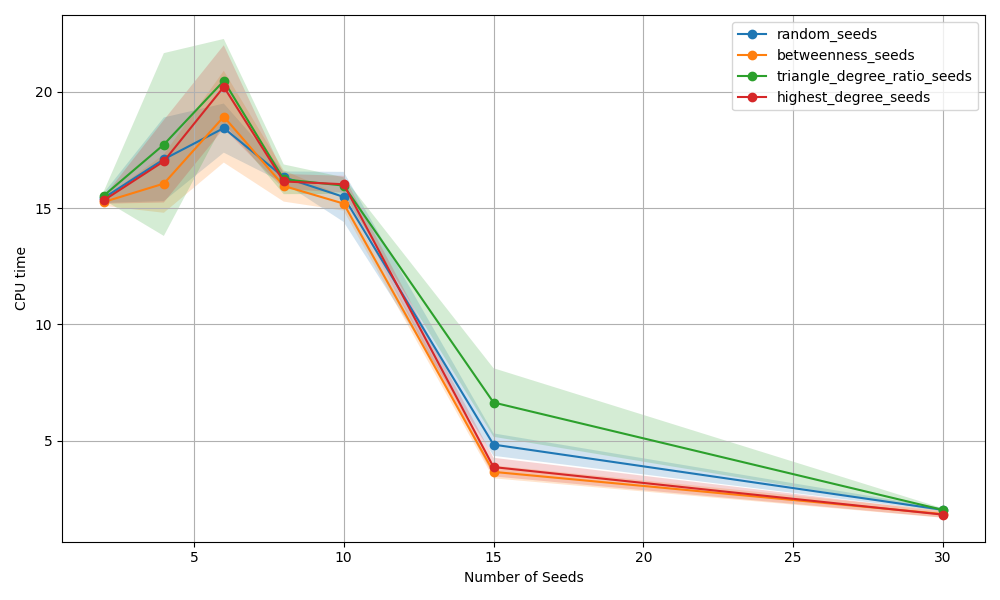
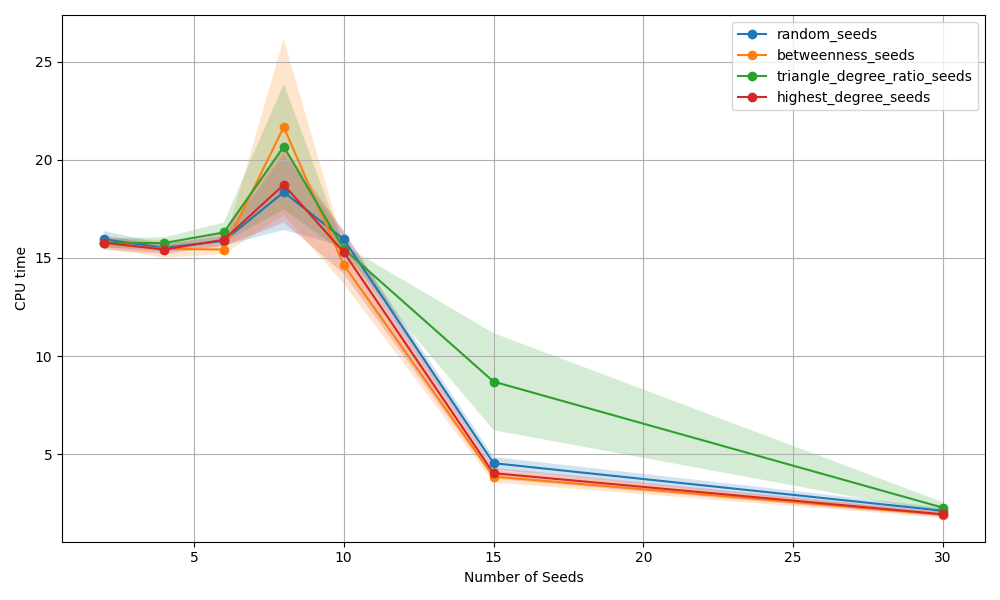
fixed error with experiment sweep

diff --git a/tests.py b/tests.py
@@ -7,11 +7,101 @@ from ExpandWhenStuck import graph_match_percolation
 
 TESTS = [
     {
+        "name": "Sparse SBM Graph with SGM",
+        "graph_gen_func": lambda: gen_SBM_graphs(n_per_block=200, n_blocks=3, rho=.8, 
+                                                 block_probs=np.array([
+                                                    [0.02, 0.005, 0.01],
+                                                    [0.005, 0.02, 0.005],
+                                                    [0.01, 0.005, 0.02]
+                                                ])),
+        "seeding_funcs": [random_seeds, betweenness_seeds, triangle_degree_ratio_seeds, blocked_random_seeds, neighbor_degree_seeds],
+        "algorithm": graspologic_algorithm,
+        "seed_numbers": [2,4,6,8,10,15,30],
+        "trials": 20
+    },
+    {
+        "name": "Dense SBM Graph with Percolation",
+        "graph_gen_func": lambda: gen_SBM_graphs(n_per_block=200, n_blocks=3, rho=.5, 
+                                                 block_probs=np.array([
+                                                    [0.7, 0.3, 0.4],
+                                                    [0.3, 0.7, 0.3],
+                                                    [0.4, 0.3, 0.7]
+                                                ])),
+        "seeding_funcs": [random_seeds, betweenness_seeds, triangle_degree_ratio_seeds, blocked_random_seeds, neighbor_degree_seeds],
+        "algorithm": graph_match_percolation,
+        "seed_numbers": [2,4,6,8,10,15,30,50],
+        "trials": 20
+    },
+    {
+        "name": "Sparse SBM Graph with Percolation",
+        "graph_gen_func": lambda: gen_SBM_graphs(n_per_block=200, n_blocks=3, rho=.8, 
+                                                 block_probs=np.array([
+                                                    [0.02, 0.005, 0.01],
+                                                    [0.005, 0.02, 0.005],
+                                                    [0.01, 0.005, 0.02]
+                                                ])),
+        "seeding_funcs": [random_seeds, betweenness_seeds, triangle_degree_ratio_seeds, blocked_random_seeds, neighbor_degree_seeds],
+        "algorithm": graph_match_percolation,
+        "seed_numbers": [2,4,6,8,10,15,30,50],
+        "trials": 20
+    },
+    {
+        "name": "Heavy tail PAPER Graph with SGM",
+        "graph_gen_func": lambda: gen_PAPER_graphs(n=600, alpha=2, p=.005, rho=.7),
+        "seeding_funcs": [random_seeds, betweenness_seeds, triangle_degree_ratio_seeds, highest_degree_seeds, neighbor_degree_seeds],
+        "algorithm": graspologic_algorithm,
+        "seed_numbers": [2,4,6,8,10,15,30],
+        "trials": 20
+    },
+    {
+        "name": "Light tail PAPER Graph with SGM",
+        "graph_gen_func": lambda: gen_PAPER_graphs(n=600, alpha=3, p=.005, rho=.7),
+        "seeding_funcs": [random_seeds, betweenness_seeds, triangle_degree_ratio_seeds, highest_degree_seeds, neighbor_degree_seeds],
+        "algorithm": graspologic_algorithm,
+        "seed_numbers": [2,4,6,8,10,15,30],
+        "trials": 20
+    },
+    {
+        "name": "Heavy tail PAPER Graph with Percolation",
+        "graph_gen_func": lambda: gen_PAPER_graphs(n=600, alpha=2, p=.005, rho=.7),
+        "seeding_funcs": [random_seeds, betweenness_seeds, triangle_degree_ratio_seeds, highest_degree_seeds, neighbor_degree_seeds],
+        "algorithm": graph_match_percolation,
+        "seed_numbers": [2,4,6,8,10,15,30],
+        "trials": 20
+    },
+    {
+        "name": "Light tail PAPER Graph with Percolation",
+        "graph_gen_func": lambda: gen_PAPER_graphs(n=600, alpha=3, p=.005, rho=.7),
+        "seeding_funcs": [random_seeds, betweenness_seeds, triangle_degree_ratio_seeds, highest_degree_seeds, neighbor_degree_seeds],
+        "algorithm": graph_match_percolation,
+        "seed_numbers": [2,4,6,8,10,15,30],
+        "trials": 20
+    },
+    {
         "name": "Sparse ER Graph with SGM",
         "graph_gen_func": lambda: gen_ER_graphs(n=600, p=.01, rho=.5),
         "seeding_funcs": [random_seeds, betweenness_seeds, triangle_degree_ratio_seeds, highest_degree_seeds],
         "algorithm": graspologic_algorithm,
-        "seed_numbers": [2,5,10,15,30,50],
+        "seed_numbers": [0,10,30,50,100,150],
+        "trials": 20
+    },
+    {
+        "name": "Sparse ER Graph with Percolation",
+        "graph_gen_func": lambda: gen_ER_graphs(n=600, p=.01, rho=.5),
+        "seeding_funcs": [random_seeds, betweenness_seeds, triangle_degree_ratio_seeds, highest_degree_seeds],
+        "algorithm": graph_match_percolation,
+        "seed_numbers": [0,10,30,50,100,150],
+        "trials": 20
+    },
+]
+
+OLD_TESTS = [
+    {
+        "name": "Dense ER Graph with SGM",
+        "graph_gen_func": lambda: gen_ER_graphs(n=600, p=.2, rho=.5),
+        "seeding_funcs": [random_seeds, betweenness_seeds, triangle_degree_ratio_seeds, highest_degree_seeds],
+        "algorithm": graspologic_algorithm,
+        "seed_numbers": [2,4,6,8,10,15,30],
         "trials": 20
     },
     {
@@ -23,20 +113,14 @@ TESTS = [
         "trials": 20
     },
     {
-        "name": "Sparse ER Graph with Percolation",
-        "graph_gen_func": lambda: gen_ER_graphs(n=600, p=.01, rho=.5),
-        "seeding_funcs": [random_seeds, betweenness_seeds, triangle_degree_ratio_seeds, highest_degree_seeds],
-        "algorithm": graph_match_percolation,
-        "seed_numbers": [2,4,6,8,10,15,30],
-        "trials": 20
-    }
-]
-
-OLD_TESTS = [
-    {
-        "name": "Dense ER Graph with SGM",
-        "graph_gen_func": lambda: gen_ER_graphs(n=600, p=.2, rho=.5),
-        "seeding_funcs": [random_seeds, betweenness_seeds, triangle_degree_ratio_seeds, highest_degree_seeds],
+        "name": "Dense SBM Graph with SGM",
+        "graph_gen_func": lambda: gen_SBM_graphs(n_per_block=200, n_blocks=3, rho=.5, 
+                                                 block_probs=np.array([
+                                                    [0.7, 0.3, 0.4],
+                                                    [0.3, 0.7, 0.3],
+                                                    [0.4, 0.3, 0.7]
+                                                ])),
+        "seeding_funcs": [random_seeds, betweenness_seeds, triangle_degree_ratio_seeds, blocked_random_seeds, neighbor_degree_seeds],
         "algorithm": graspologic_algorithm,
         "seed_numbers": [2,4,6,8,10,15,30],
         "trials": 20

diff --git a/experiment_sweep.py b/experiment_sweep.py
@@ -43,8 +43,8 @@ def run_experiment_sweep(tests):
         )
         
         # 3. Call plot_results to save the visualization into the new folder
-        plot_results(accuracies, SEED_COUNTS, y_label="Match Ratio", show_plot=False, out_file=f"results/{test_name}/accuracy_by_seed_count.png")
-        plot_results(runtimes, SEED_COUNTS, y_label="CPU time", show_plot=False, out_file=f"results/{test_name}/runtime_by_seed_count.png")
+        plot_results(accuracies, seed_numbers, y_label="Match Ratio", show_plot=False, out_file=f"results/{test_name}/accuracy_by_seed_count.png")
+        plot_results(runtimes, seed_numbers, y_label="CPU time", show_plot=False, out_file=f"results/{test_name}/runtime_by_seed_count.png")
 
         # 4. Save results as json files
         with open(f"results/{test_name}/accuracy_data.json", "w") as f: